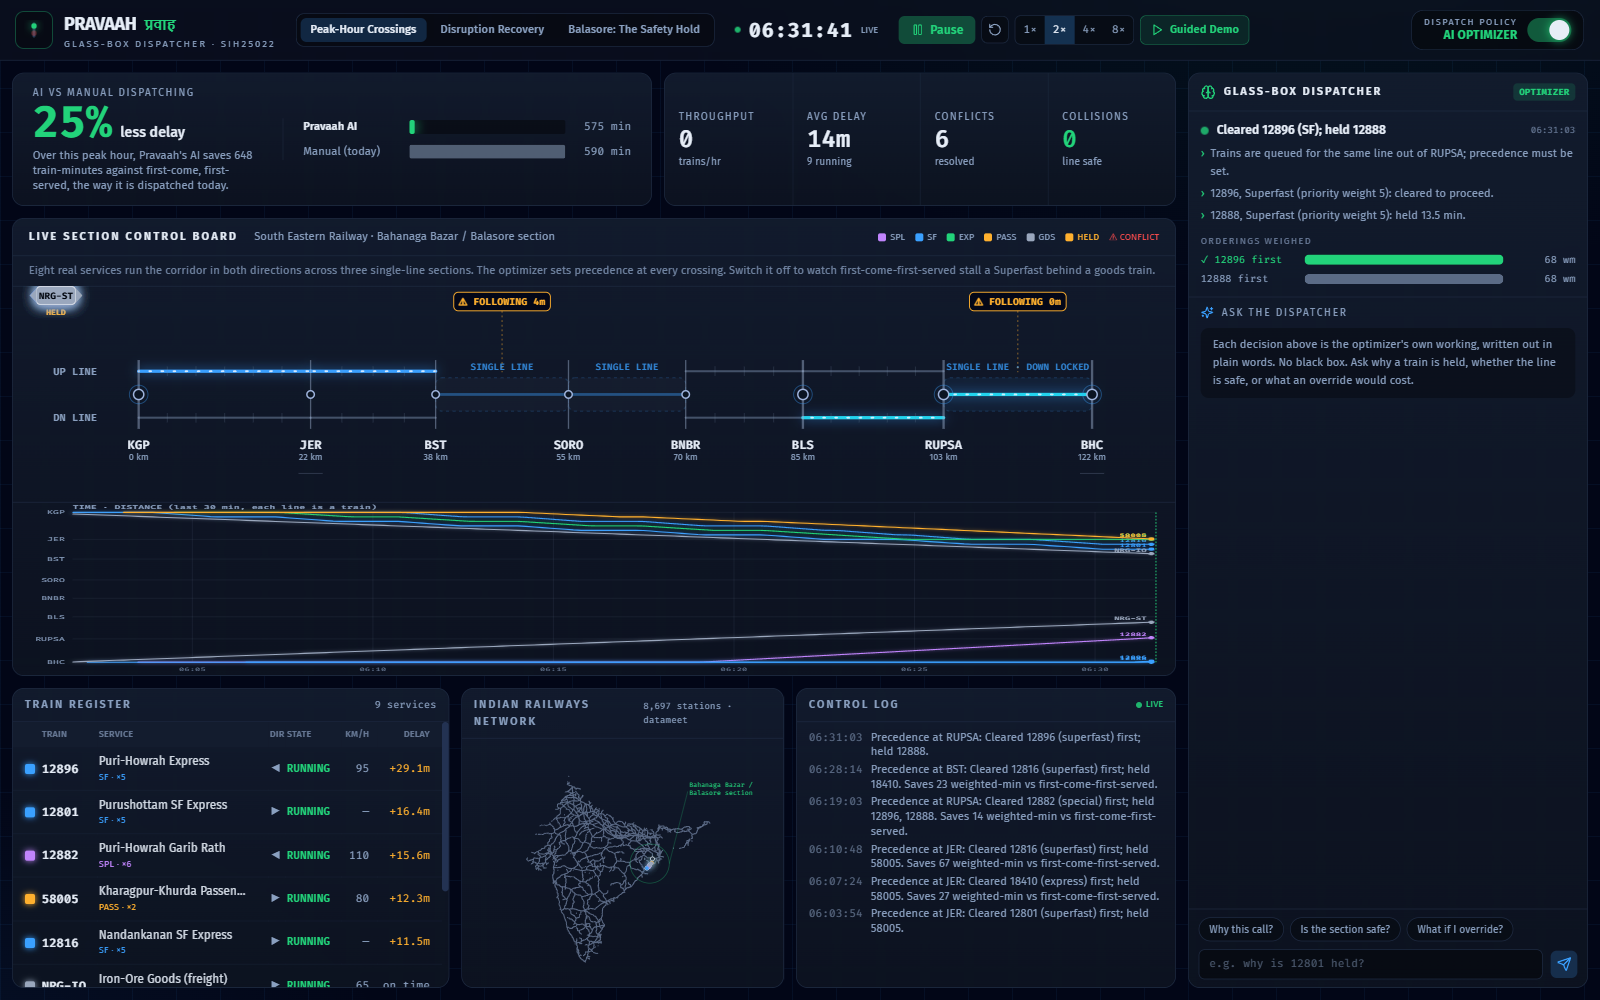
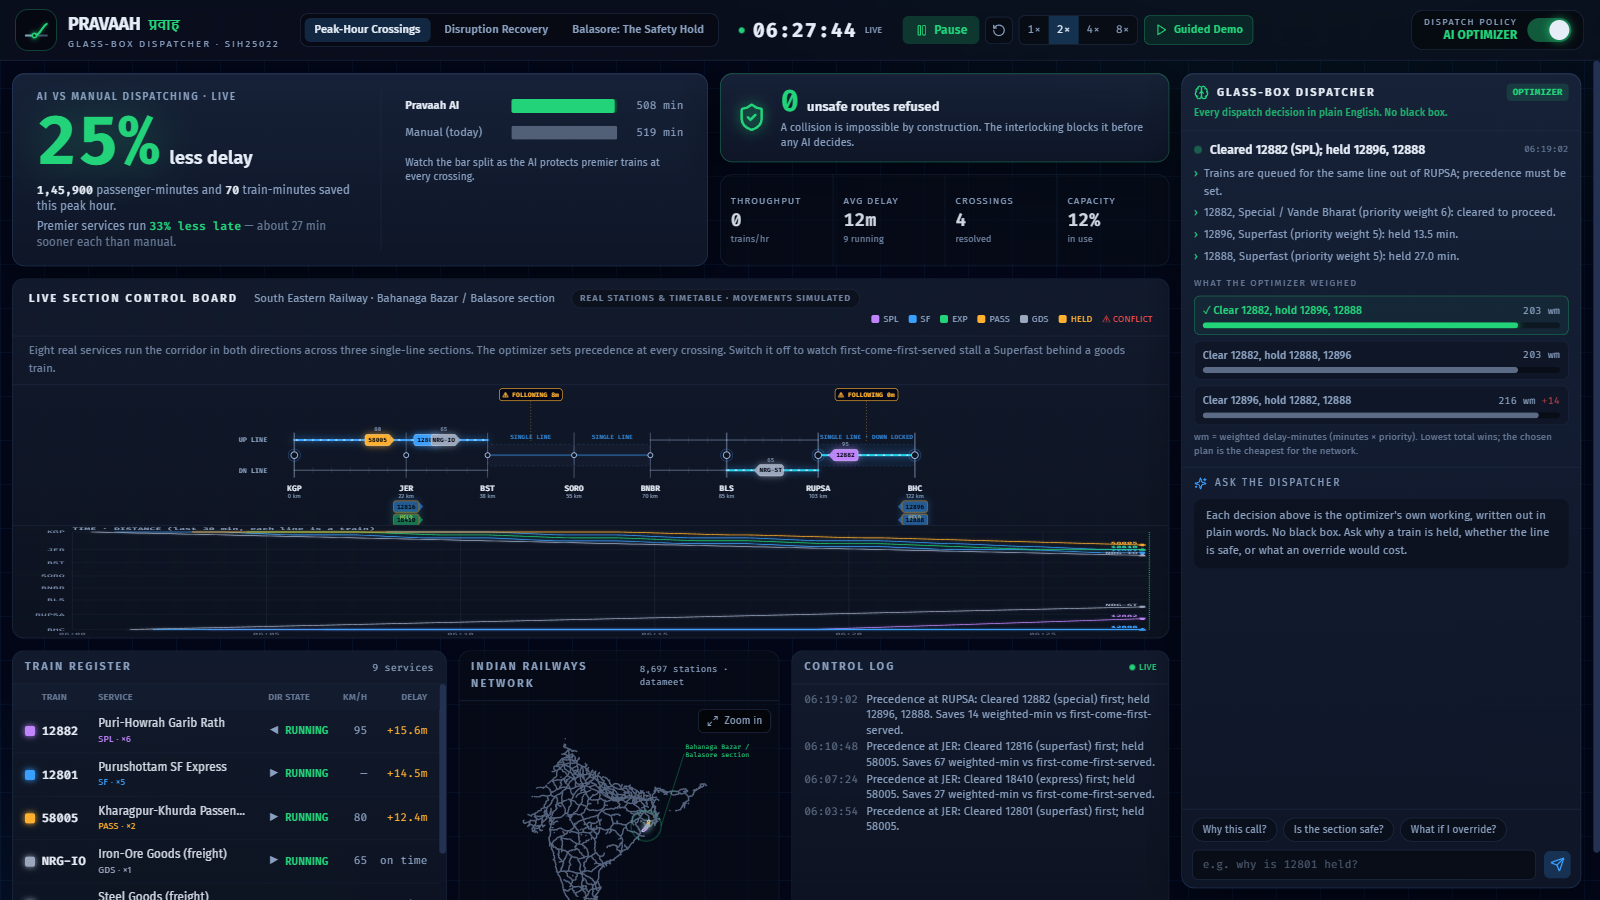
Update README: refresh control-room/glass-box/safety screenshots to the current UI, and the headline result (25% with passenger-minute and premier-protection figures)

diff --git a/README.md b/README.md
@@ -38,9 +38,10 @@ Open the live link and you are looking at a real, congested stretch of the South
 
 ## The result
 
-From the test suite, on the peak scenario, the AI optimizer against the manual first-come-first-served baseline:
+On the peak scenario, the AI optimizer against the manual first-come-first-served baseline:
 
-- About **20% less weighted delay** (a premier train's minute counts for more, the way a controller already reasons).
+- About **25% less weighted delay** (a premier train's minute counts for more, the way a controller already reasons).
+- In human terms, roughly **1.46 lakh passenger-minutes saved** over the peak hour, and premier trains (Superfast and above) running **33% less late** — about 27 minutes sooner each — because the AI protects them at every crossing.
 - The same number of trains cleared. The optimizer does not move more trains, it protects the important ones.
 - **Zero** unsafe states permitted, under either policy.
 